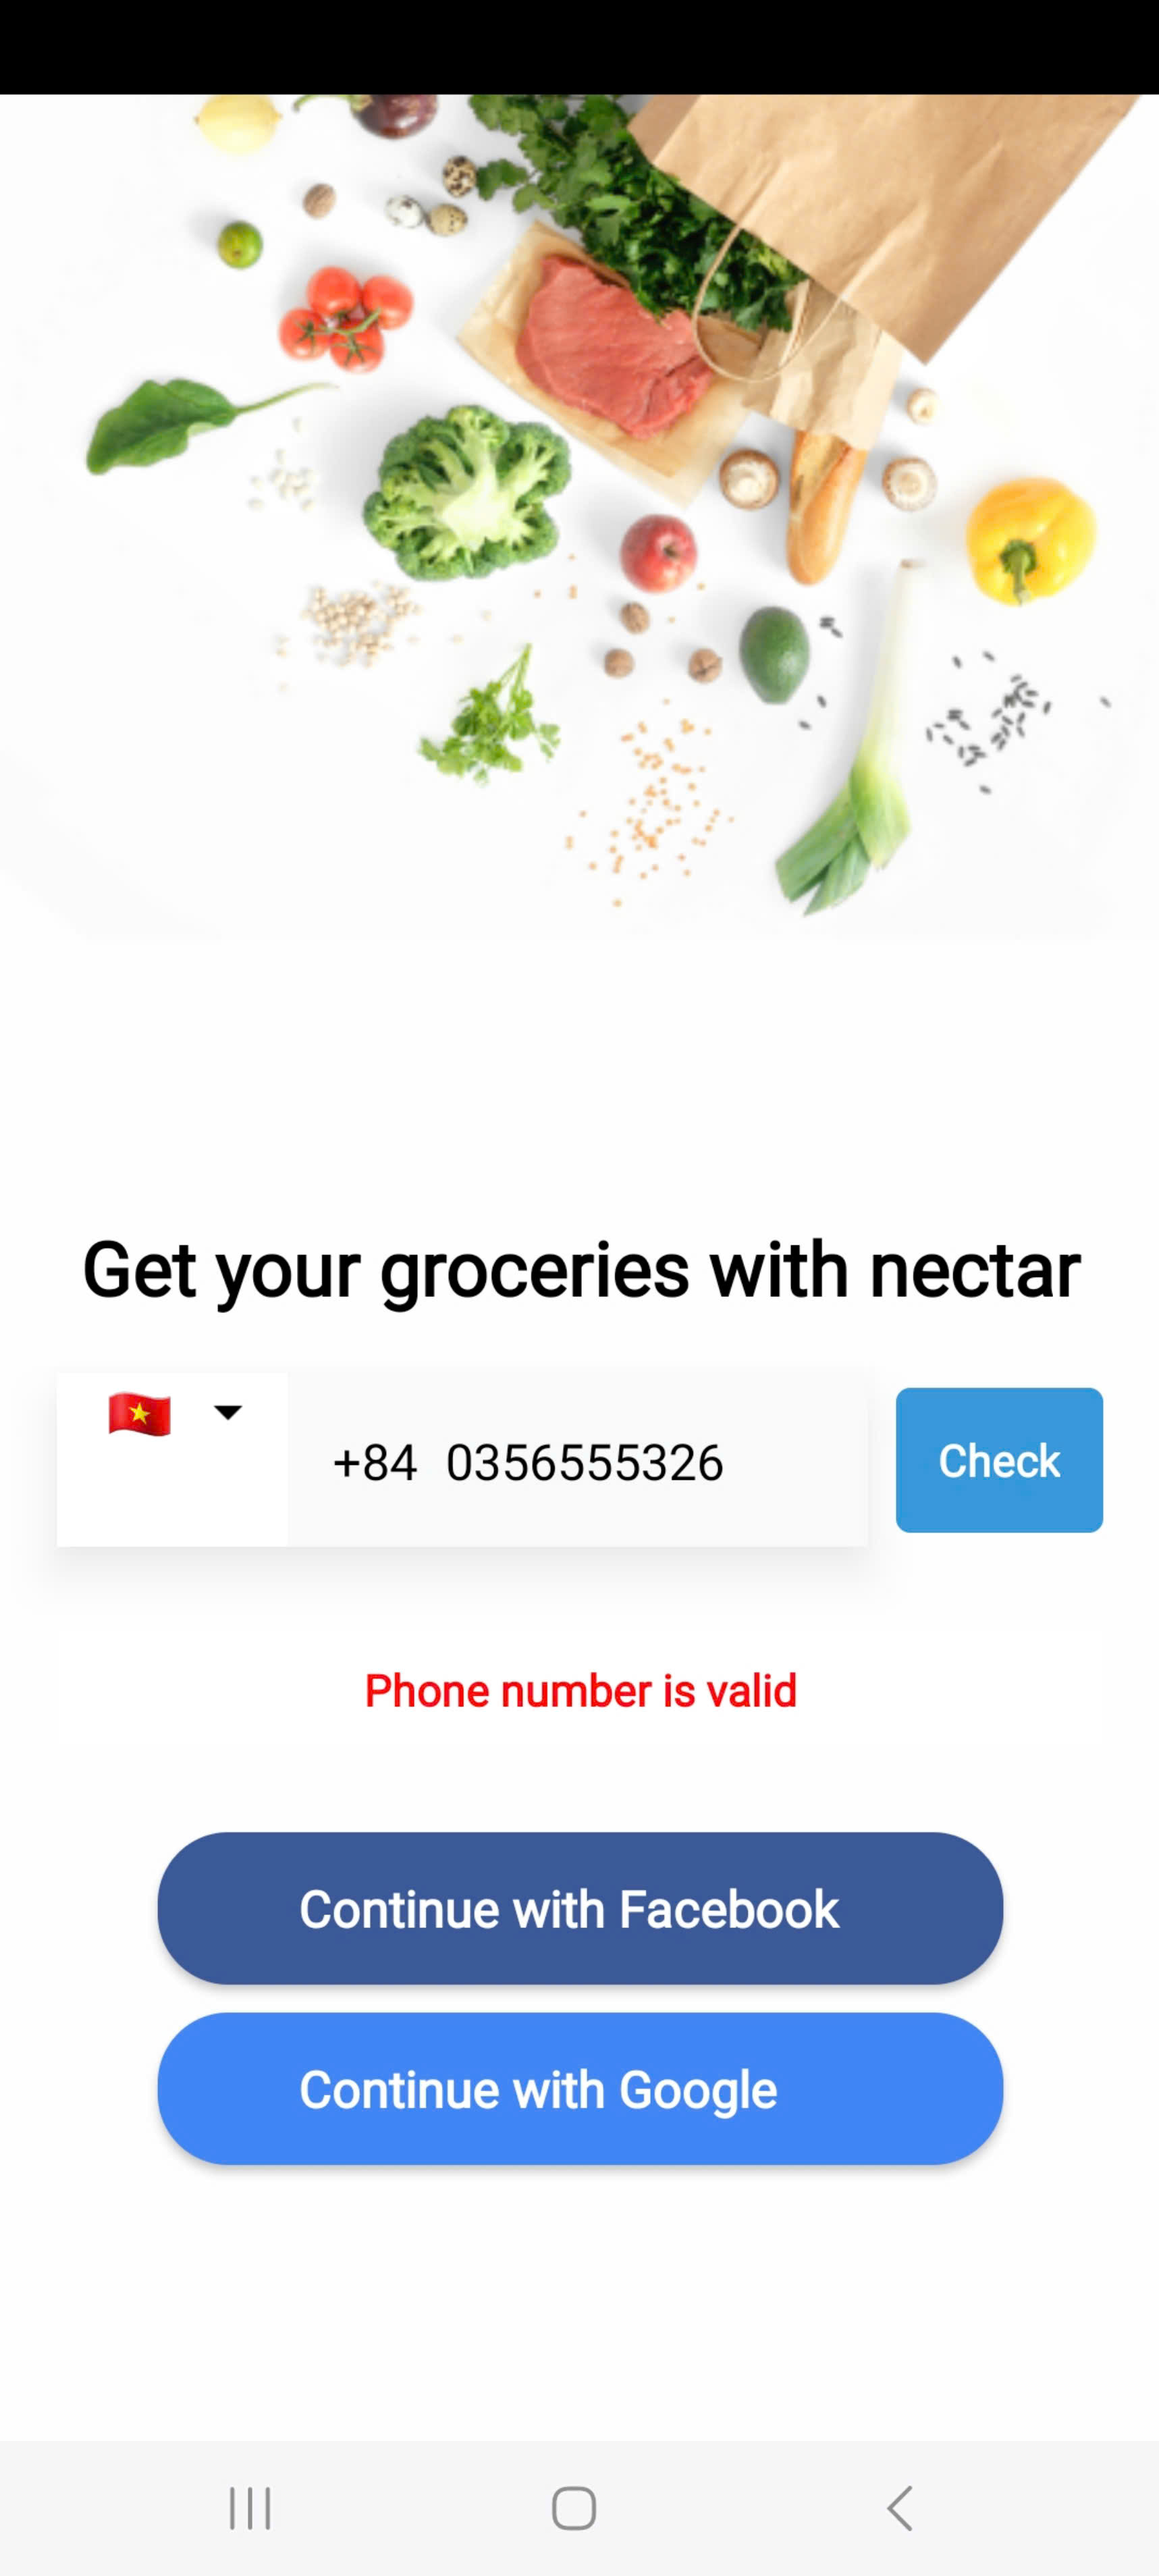
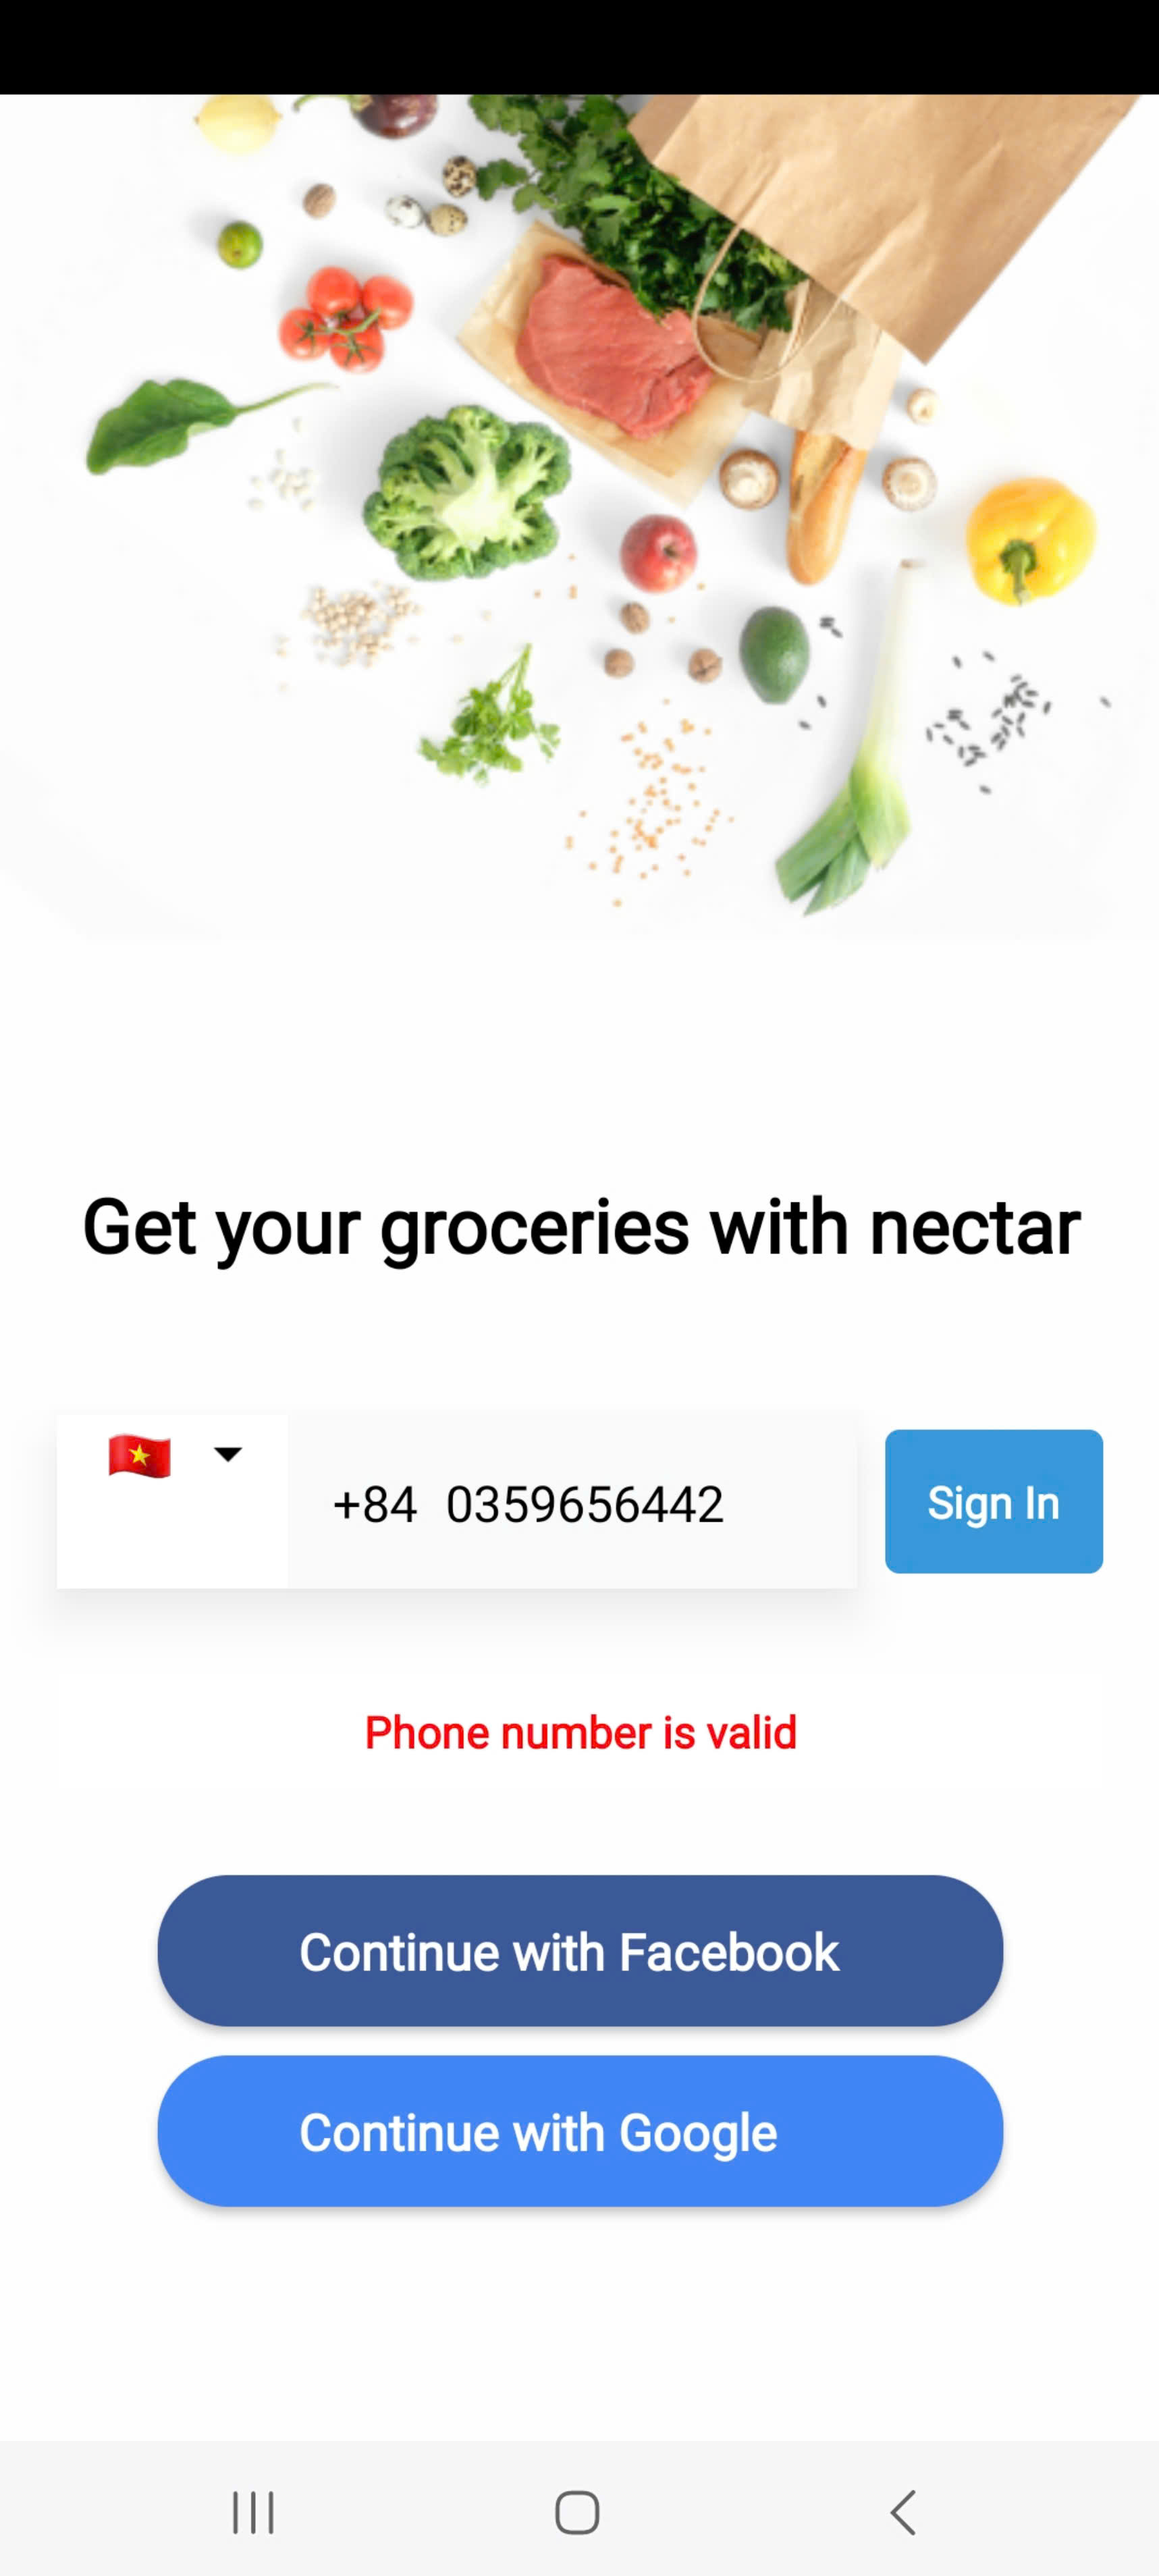
noi dung

diff --git a/SignInScreen.js b/SignInScreen.js
@@ -1,12 +1,12 @@
 import React, { useRef, useState } from "react";
 import {
-    Image,
-    SafeAreaView,
-    StatusBar,
-    StyleSheet,
-    Text,
-    TouchableOpacity,
-    View,
+  Image,
+  SafeAreaView,
+  StatusBar,
+  StyleSheet,
+  Text,
+  TouchableOpacity,
+  View,
 } from "react-native";
 import PhoneInput from "react-native-phone-number-input"; // Thư viện để nhập số điện thoại với mã quốc gia
 
@@ -54,7 +54,7 @@ const SignInScreen = () => {
                 }
               }}
             >
-              <Text style={styles.buttonText}>Check</Text>
+              <Text style={styles.buttonText}>Sign In</Text>
             </TouchableOpacity>
           </View>
 

diff --git a/README.md b/README.md
@@ -4,3 +4,4 @@
 ![alt](start.jpg)
 ![alt](signin1.jpg)
 ![alt](signin2.jpg)
+![alt](country.jpg)
